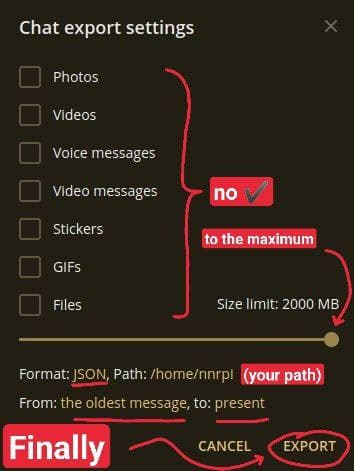
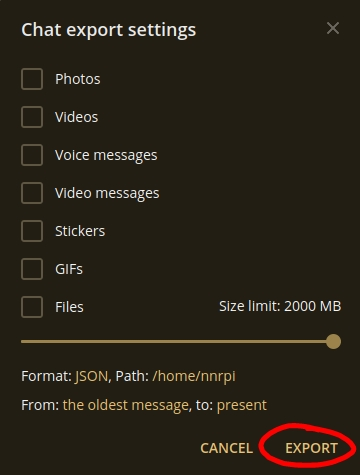
Fix English and make good(I hope so) pictures

diff --git a/README.md b/README.md
@@ -1,31 +1,20 @@
 # Telegram statistics
 Here you can find a program that somehow analyze your
-Telegram conversations. Right now for each chat member **it
+Telegram conversations. Right now **it
 can**:
-* count his messages
-* count the symbols he's written
-* count his average message length
-* determine who replied him the most and to whom did he
+* count messages
+* count total message length
+* count average message length
+* determine who replied the user the most and to whom did the user
 replied the most
-* determine and count his most often used meessages
-
-## Installation
-### Requirements:
-* Python 3
-* All from [requirements.txt](https://github.com/nnrpi/tg_statistic/blob/master/requirements.txt)
-file
-
-### How to download this project:
-Just create a new directory for the project and clone it there
-by using
-`git clone https://github.com/nnrpi/tg_statistic.git`
+* determine and count the most often used words
 
 ## Usage
 1. **Export** the Telegram chat you want to analyze:
     * Open this chat
-    * Click on 3 dots in the right up corner ![](Pictures/1337chat.jpg)
+    * Click on 3 dots in the top right corner ![](Pictures/1337chat.jpg)
     * Click on "Export chat history" ![](Pictures/1337export_chat.jpg)
-    * Make all like in the picture below and click on the "Export"
+    * Make everything like in the picture below and click on the "Export"
     button ![](Pictures/1337exporting.jpg)
     * After this your chat exporting will start. Wait till it ends
     * You will see a directory called like 'ChatExport_<today_date>'.
